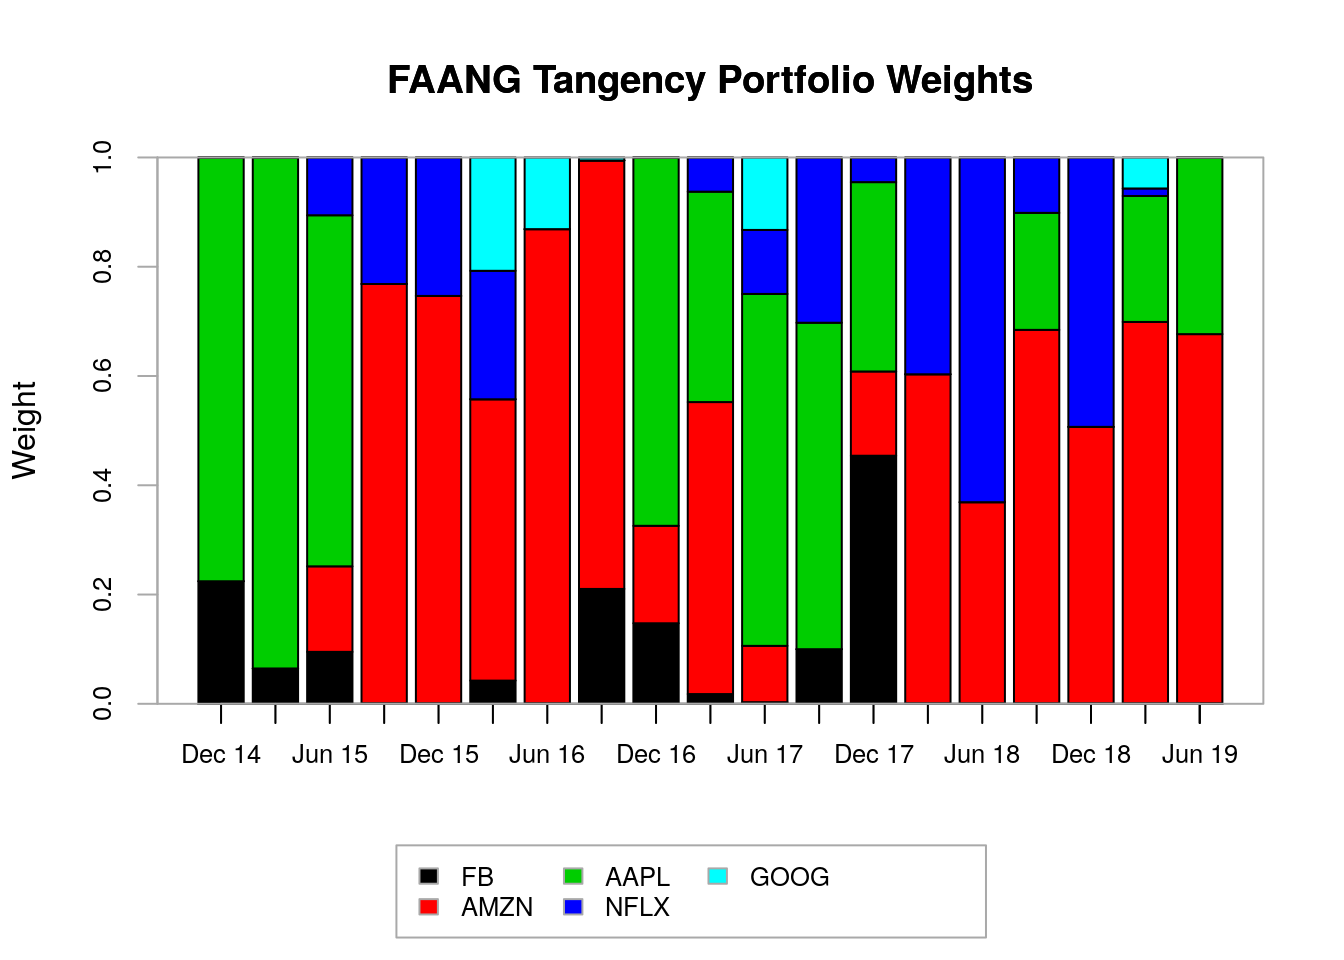
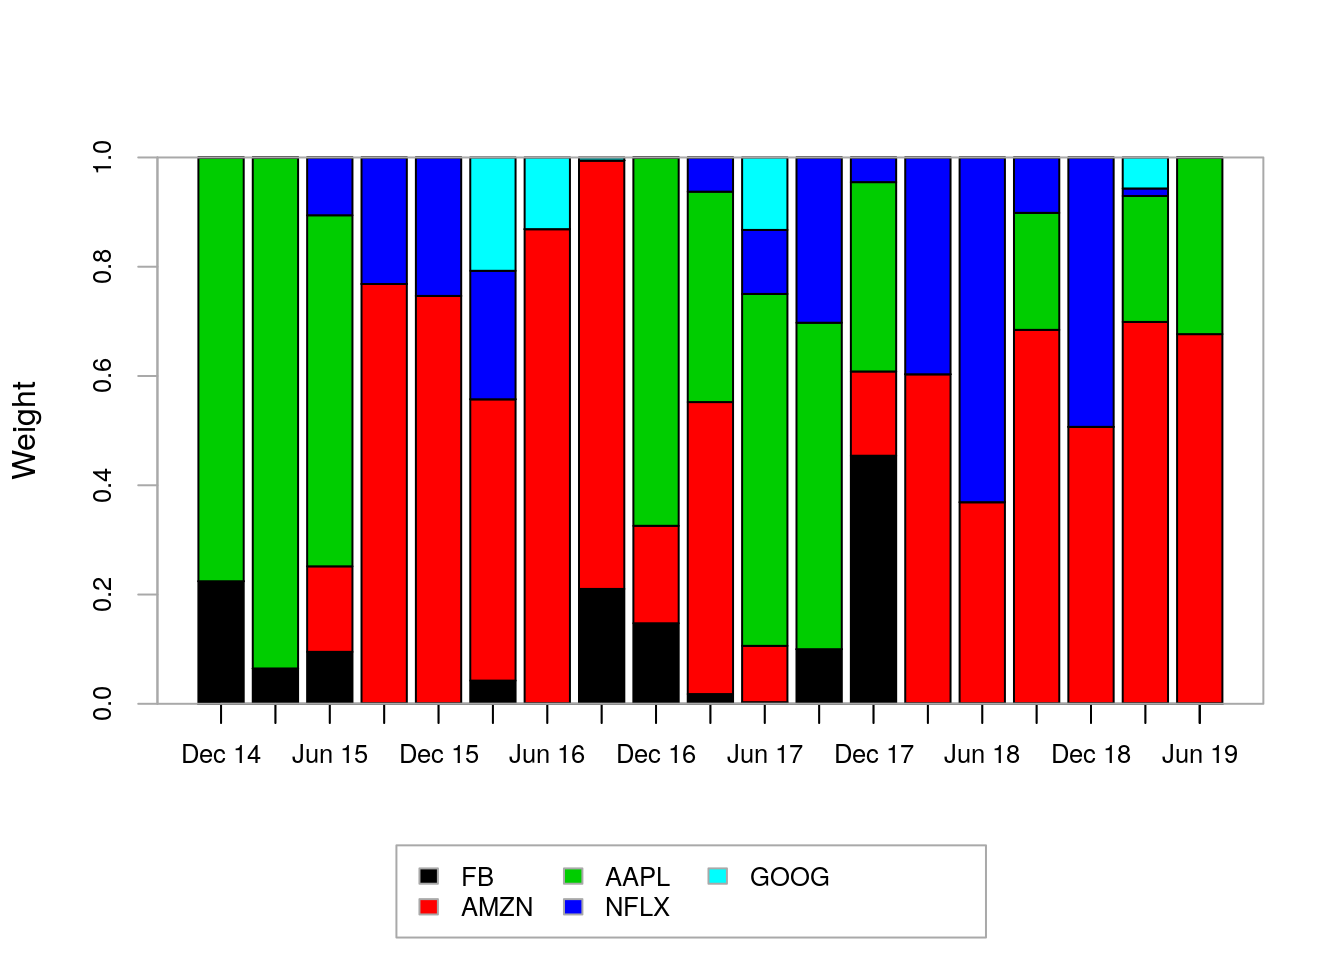
Apply corrections to Chapter Risk Parity

Changed region(s): [[0.2812, 0.0625, 0.7812, 0.125]]

diff --git a/_book/risk-parity-portfolios.html b/_book/risk-parity-portfolios.html
@@ -301,7 +301,7 @@ portfolio.tangency &lt;-<span class="st"> </span><span class="kw">tangencyPortfo
 portfolio.weights &lt;-<span class="st"> </span><span class="kw">rbind</span>(portfolio.parity<span class="op">$</span>w, <span class="kw">getWeights</span>(portfolio.tangency))
 <span class="kw">row.names</span>(portfolio.weights)&lt;-<span class="kw">c</span>(<span class="st">&quot;Parity Portfolio&quot;</span>, <span class="st">&quot;Tangency Portfolio&quot;</span>)</code></pre></div>
 <p>Fig. <a href="risk-parity-portfolios.html#fig:parityweights">3.1</a> shows the portfolio weights obtained for both the Parity and the Tangency portfolios. We observe that the Tangency portfolio concentrates the weights between Amazon and Netflix with both companies having nearly the same weight while Facebook, Apple and Google are left out of the portfolio. On the other hand, the Parity portfolio presents a well-balanced distribution of weights among the FAANG companies with all company weights around 20%. Apple and Google have weights a little over 20% while Netflix is the company with the lowest weight (15%).</p>
-<div class="sourceCode"><pre class="sourceCode r"><code class="sourceCode r"><span class="kw">barplot</span>(portfolio.weights, <span class="dt">main =</span> <span class="st">&quot;Portfolio Weights&quot;</span>, <span class="dt">xlab =</span> <span class="st">&quot;stocks&quot;</span>, <span class="dt">ylab =</span> <span class="st">&quot;dollars&quot;</span>,
+<div class="sourceCode"><pre class="sourceCode r"><code class="sourceCode r"><span class="kw">barplot</span>(portfolio.weights, <span class="dt">main =</span> <span class="st">&quot;&quot;</span>, <span class="dt">xlab =</span> <span class="st">&quot;stocks&quot;</span>, <span class="dt">ylab =</span> <span class="st">&quot;dollars&quot;</span>,
         <span class="dt">beside =</span> <span class="ot">TRUE</span>, <span class="dt">legend =</span> <span class="ot">TRUE</span>, <span class="dt">col=</span><span class="kw">c</span>(<span class="st">&quot;black&quot;</span>, <span class="st">&quot;red&quot;</span>),
         <span class="dt">args.legend =</span> <span class="kw">list</span>(<span class="dt">bg =</span> <span class="st">&quot;white&quot;</span>))</code></pre></div>
 <div class="figure"><span id="fig:parityweights"></span>
@@ -313,7 +313,7 @@ Figure 3.1: Portfolio weights for parity and tangency FAANG portfolios consideri
 <p>Fig. <a href="risk-parity-portfolios.html#fig:parityrisks">3.2</a> compares the (covariance) risk budget of the Parity and Tangency portfolios obtained. As expected, we observe that the Parity portfolio has a risk budget equally distributed among the portfolio assets. On the other hand, the Tangency portfolio concentrates the risk between Amazon and Netflix with the latter corresponding to over 56% of the risk budget of the portfolio.</p>
 <div class="sourceCode"><pre class="sourceCode r"><code class="sourceCode r">portfolio.risks &lt;-<span class="st"> </span><span class="kw">rbind</span>(portfolio.parity<span class="op">$</span>risk_contribution<span class="op">/</span><span class="kw">sum</span>(portfolio.parity<span class="op">$</span>risk_contribution), <span class="kw">getCovRiskBudgets</span>(portfolio.tangency))
 <span class="kw">row.names</span>(portfolio.risks)&lt;-<span class="kw">c</span>(<span class="st">&quot;Parity Portfolio&quot;</span>, <span class="st">&quot;Tangency Portfolio&quot;</span>)
-<span class="kw">barplot</span>(portfolio.risks, <span class="dt">main =</span> <span class="st">&quot;Portfolio Risk Budgets&quot;</span>, <span class="dt">xlab =</span> <span class="st">&quot;stocks&quot;</span>, <span class="dt">ylab =</span> <span class="st">&quot;Covariance Risk Budget&quot;</span>,
+<span class="kw">barplot</span>(portfolio.risks, <span class="dt">main =</span> <span class="st">&quot;&quot;</span>, <span class="dt">xlab =</span> <span class="st">&quot;stocks&quot;</span>, <span class="dt">ylab =</span> <span class="st">&quot;Covariance Risk Budget&quot;</span>,
         <span class="dt">beside =</span> <span class="ot">TRUE</span>, <span class="dt">legend =</span> <span class="ot">TRUE</span>, <span class="dt">col=</span><span class="kw">c</span>(<span class="st">&quot;black&quot;</span>, <span class="st">&quot;red&quot;</span>),
         <span class="dt">args.legend =</span> <span class="kw">list</span>(<span class="dt">bg =</span> <span class="st">&quot;white&quot;</span>))</code></pre></div>
 <div class="figure"><span id="fig:parityrisks"></span>
@@ -387,7 +387,7 @@ tan.weights&lt;-<span class="kw">t</span>(tan.weights)</code></pre></div>
 <div class="sourceCode"><pre class="sourceCode r"><code class="sourceCode r">PerformanceAnalytics<span class="op">::</span><span class="kw">chart.StackedBar</span>(parity.weights, 
                  <span class="dt">xlab =</span> <span class="st">&quot;Rebalance Dates&quot;</span>,
                  <span class="dt">ylab =</span> <span class="st">&quot;Weight&quot;</span>, 
-                 <span class="dt">main =</span> <span class="st">&quot;FAANG Risk Parity Portfolio Weights&quot;</span>)</code></pre></div>
+                 <span class="dt">main =</span> <span class="st">&quot;&quot;</span>)</code></pre></div>
 <div class="figure" style="text-align: center"><span id="fig:rollingparityweights"></span>
 <img src="open-quant-live-book_files/figure-html/rollingparityweights-1.png" alt="Portfolio weights for FAANG risk parity portfolios." width="672" />
 <p class="caption">
@@ -396,7 +396,7 @@ Figure 3.3: Portfolio weights for FAANG risk parity portfolios.
 </div>
 <div class="sourceCode"><pre class="sourceCode r"><code class="sourceCode r">PerformanceAnalytics<span class="op">::</span><span class="kw">chart.StackedBar</span>(tan.weights, <span class="dt">xlab =</span> <span class="st">&quot;Rebalance Dates&quot;</span>,
                  <span class="dt">ylab =</span> <span class="st">&quot;Weight&quot;</span>, 
-                 <span class="dt">main =</span> <span class="st">&quot;FAANG Tangency Portfolio Weights&quot;</span>)</code></pre></div>
+                 <span class="dt">main =</span> <span class="st">&quot;&quot;</span>)</code></pre></div>
 <div class="figure" style="text-align: center"><span id="fig:rollingtangencyweights"></span>
 <img src="open-quant-live-book_files/figure-html/rollingtangencyweights-1.png" alt="Portfolio weights for FAANG tangency portfolios." width="672" />
 <p class="caption">
@@ -412,7 +412,7 @@ p.returns&lt;-<span class="kw">merge</span>(tan.returns<span class="op">$</span>
 <p>Fig. <a href="risk-parity-portfolios.html#fig:perfsummary">3.5</a> shows the performance summary for the risk parity index versus the tangency portfolio index. Surprinsingly, the FAANG risk parity index outperforms the FAANG tangency portfolio index by quite a bit with a cumulative return of 169.482% versus 109.652% from the tangency portfolio index. The FAANG risk parity index also has a relatively lower drawdown across most of the period analyzed.</p>
 <div class="sourceCode"><pre class="sourceCode r"><code class="sourceCode r">### Performance Summary (return / drawdown)
 PerformanceAnalytics<span class="op">::</span><span class="kw">charts.PerformanceSummary</span>(p.returns, <span class="dt">colorset=</span>rich6equal,
-                          <span class="dt">lwd=</span><span class="dv">2</span>, <span class="dt">cex.legend =</span> <span class="fl">1.5</span>, <span class="dt">event.labels =</span> <span class="ot">TRUE</span>)</code></pre></div>
+                          <span class="dt">lwd=</span><span class="dv">2</span>, <span class="dt">cex.legend =</span> <span class="fl">1.5</span>, <span class="dt">event.labels =</span> <span class="ot">TRUE</span>, <span class="dt">main =</span> <span class="st">&quot;&quot;</span>)</code></pre></div>
 <div class="figure"><span id="fig:perfsummary"></span>
 <img src="open-quant-live-book_files/figure-html/perfsummary-1.png" alt="Performance summary for the risk parity index versus the tangency portfolio index" width="100%" />
 <p class="caption">
